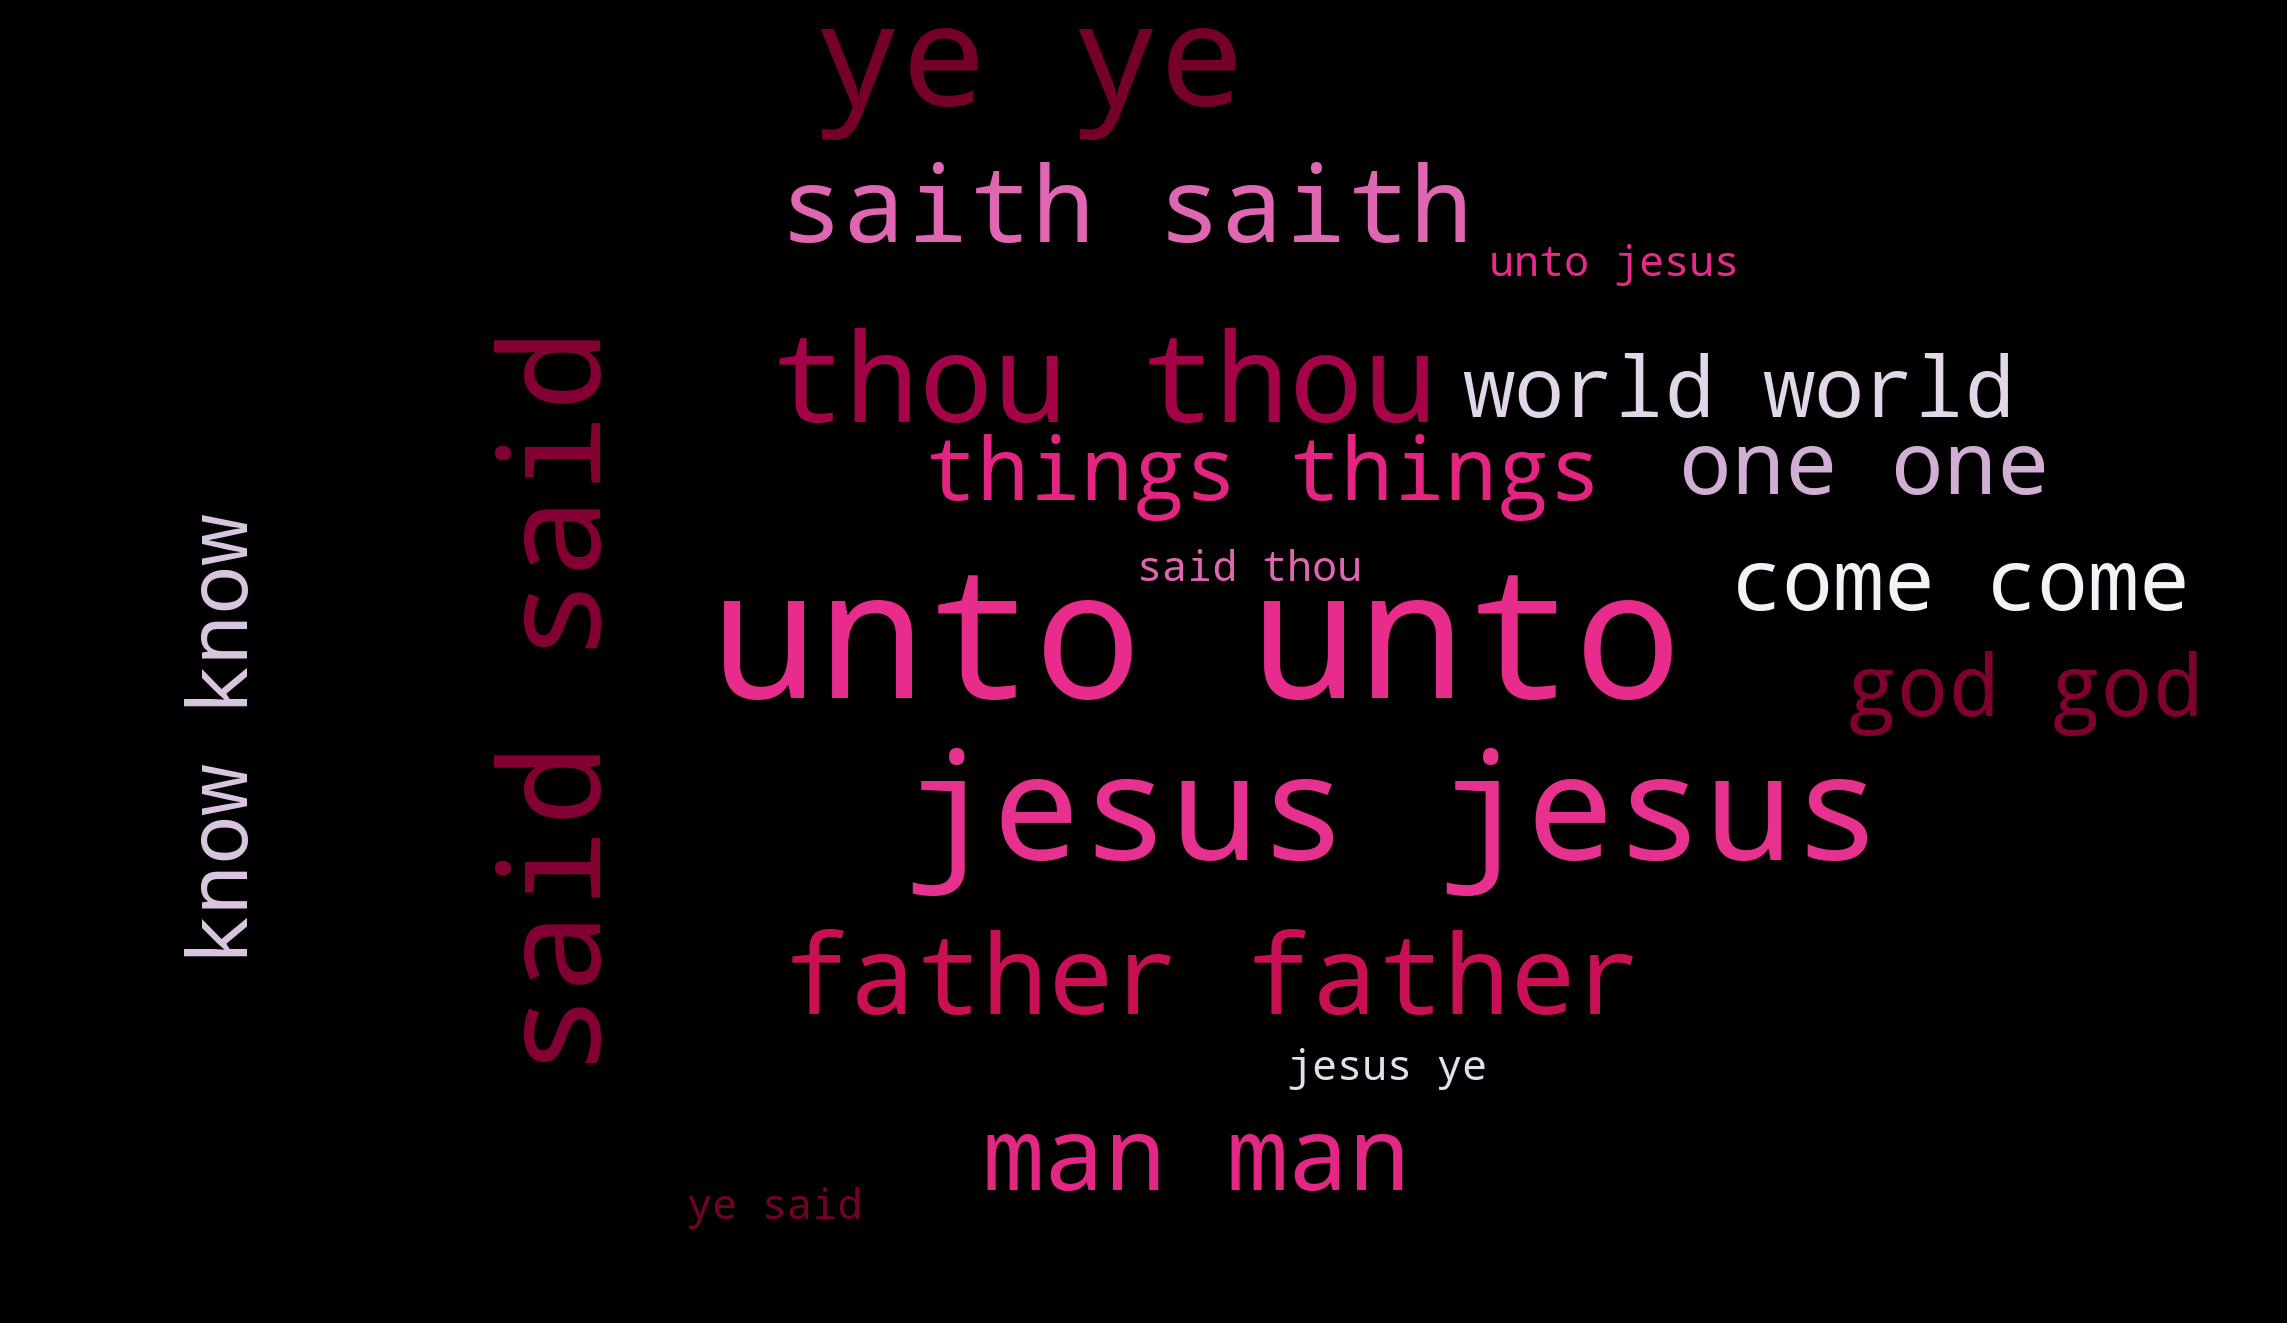
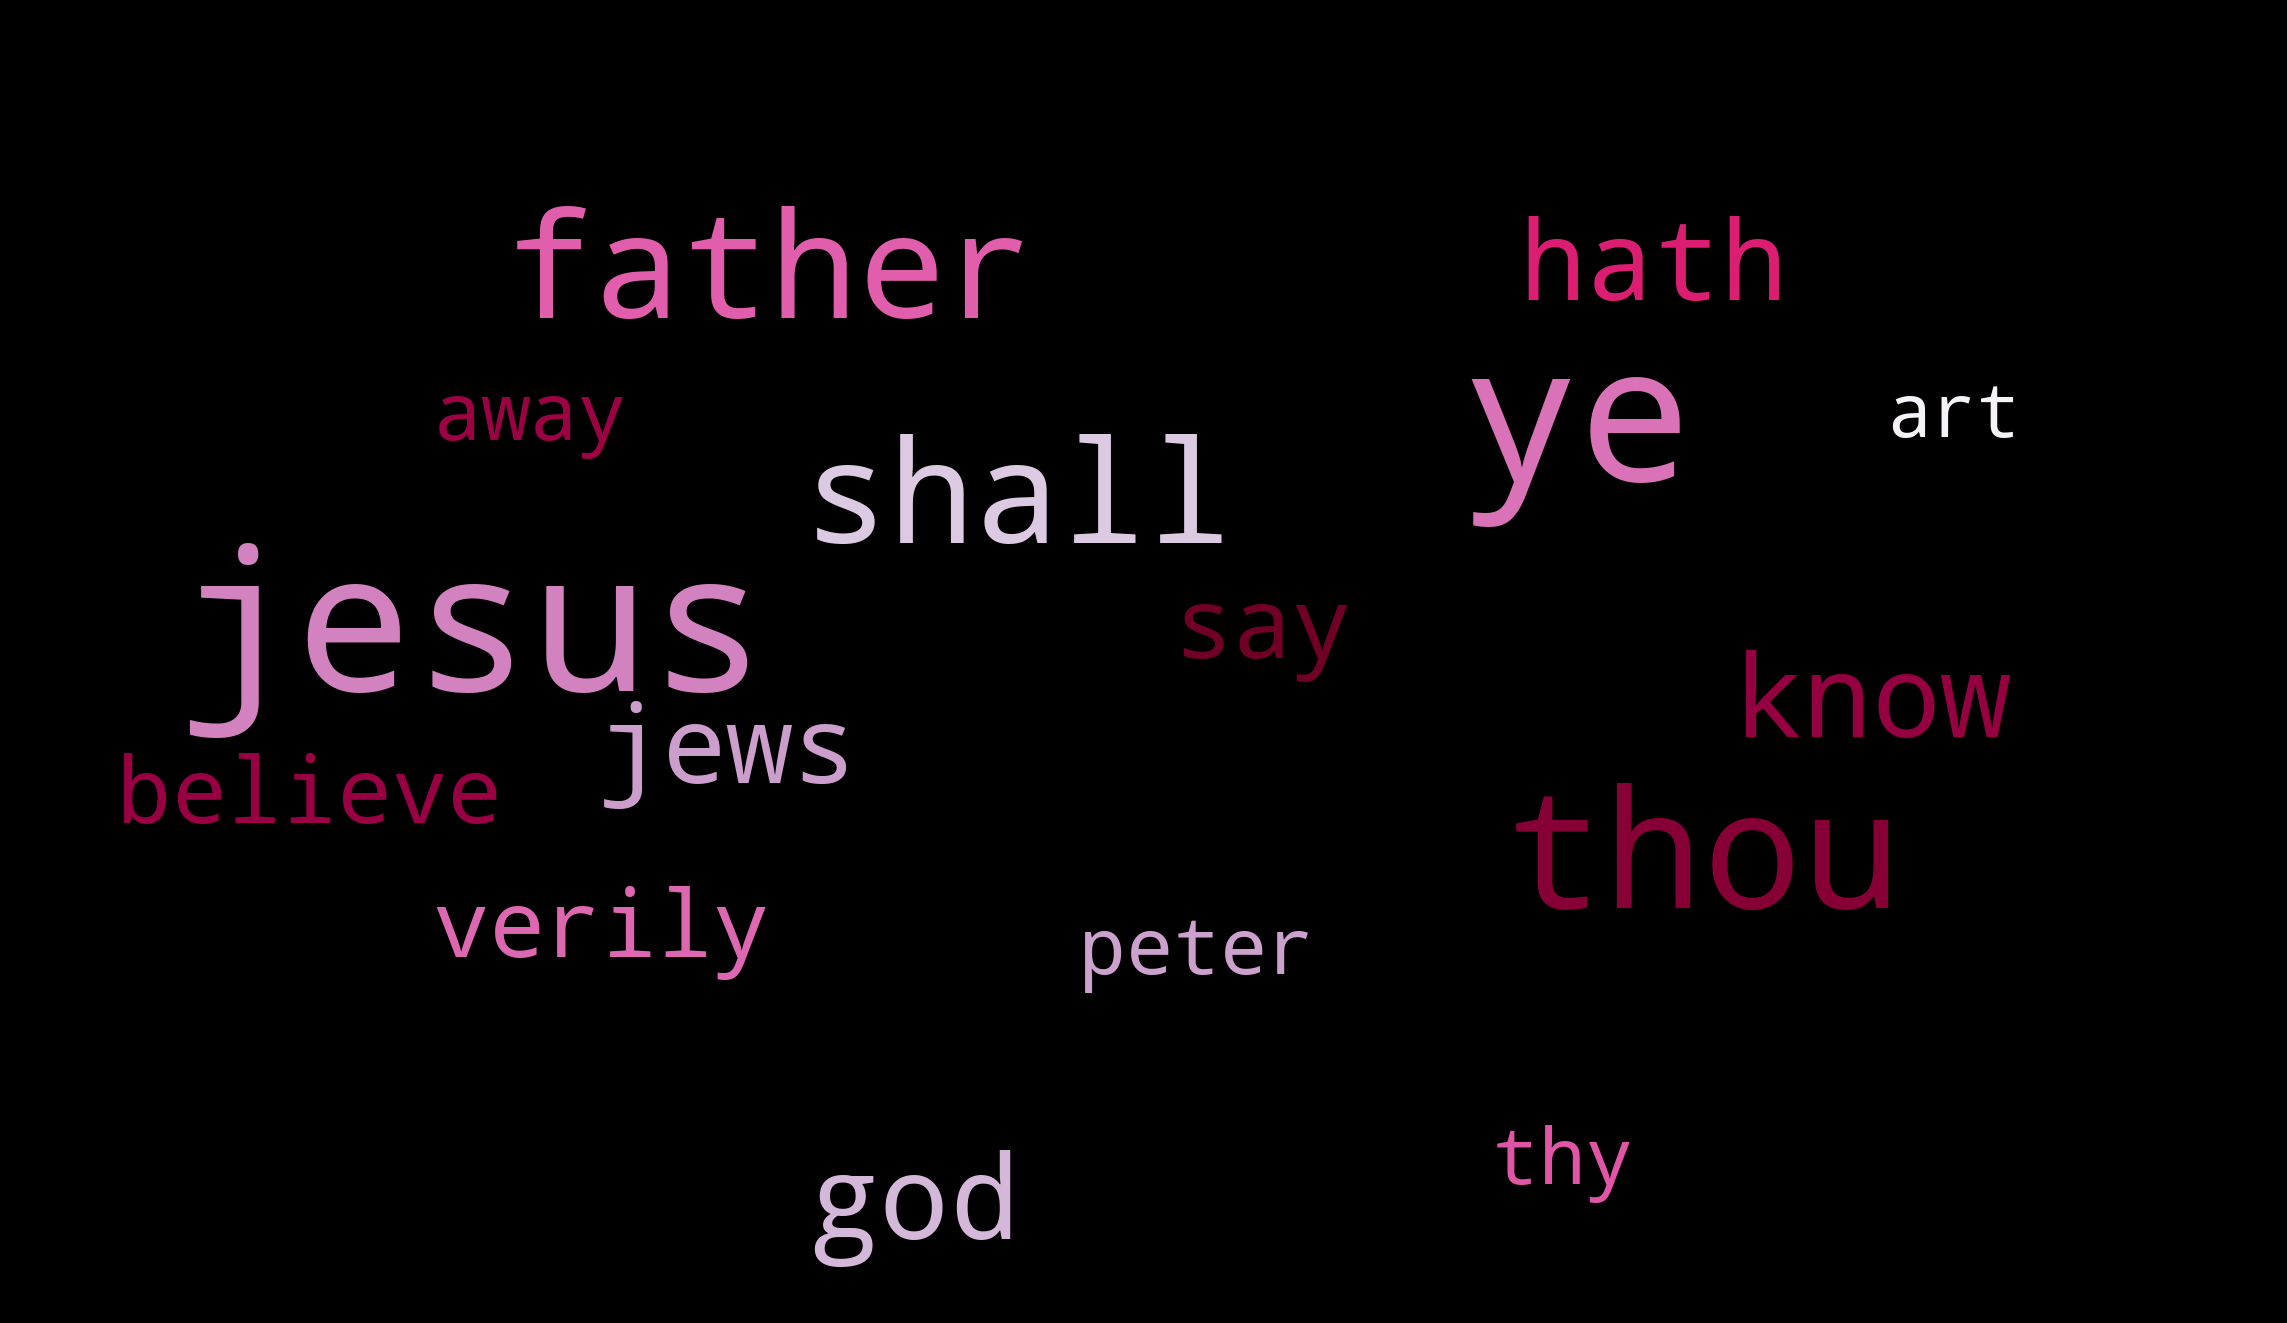
fixed double word issue

diff --git a/nlp_assignment.py b/nlp_assignment.py
@@ -15,30 +15,25 @@ from pathlib import Path
 stops = stopwords.words("english")
 
 blob = TextBlob(Path("book of John text.txt").read_text())
+nouns = blob.noun_phrases
 
+items = blob.word_counts.items() # list of tuples with every word plus their corresponding freuqency in the text
 
-items = blob.word_counts.items()
-items_not_in_stops = [item for item in items if item[0] not in stops]
-
+items_not_in_stops = [item for item in items if item[0] in nouns if item[0] not in stops]
 #######
 # Get the 15 most common words
 from operator import itemgetter
 
-sorted_items = sorted(items_not_in_stops, key = itemgetter(1), reverse = True)
+sorted_items = sorted(items_not_in_stops, key = itemgetter(1), reverse=True)  # the 1 stands for [1], so the second part of the object
+# reverse reverses sorted order and shows the highest numbers first. 
 
-top15_items = sorted_items[:16]
+top15 = dict(sorted_items[:16])
+print(top15)
 
-
-
-top15_list = [(x[0] + " ") * x[1] for x in top15_items]
 
 ### Make list into string for wordcloud
-top15_str = "" 
-for x in top15_list:  
-    top15_str += x
 
-print(top15_str)
-'''
+
 #######
 # Now make word cloud
 from wordcloud import WordCloud
@@ -48,8 +43,8 @@ import matplotlib as plt
 
 mask_image = imageio.imread("mask_oval.png")
 wordcloud = WordCloud(colormap = "PuRd", mask=mask_image, background_color="black")
-wordcloud = wordcloud.generate(top15_str)
+wordcloud = wordcloud.fit_words(top15)
 
 wordcloud = wordcloud.to_file("BookOfJohnWordCloud.png")
 
-print("done")'''
+print("done")
